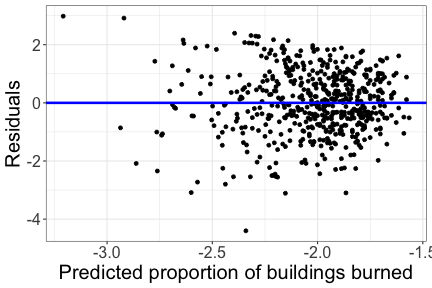
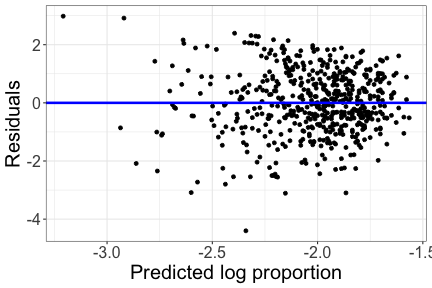
lecture 22 draft

Changed region(s): [[0.1204, 0.9062, 0.963, 1.0]]

diff --git a/slides/lecture_22.html b/slides/lecture_22.html
@@ -286,7 +286,7 @@ Where do we start?
 
 ## Looking at relationships: pairs plot
 
-A **pairs plot** let's us visualize pairwise relationships in the data:
+A **pairs plot** lets us visualize pairwise relationships in the data:
 
 &lt;img src="lecture_22_files/figure-html/unnamed-chunk-12-1.png" style="display: block; margin: auto;" /&gt;
 
@@ -336,6 +336,76 @@ What can I try to address these issues?
 
 .pull-right[
 &lt;img src="lecture_22_files/figure-html/unnamed-chunk-18-1.png" style="display: block; margin: auto;" /&gt;
+]
+
+---
+
+## How useful is the model?
+
+**Coefficient of determination** ( `\(R^2\)` ): the proportion of total variability in the response variable explained by the regression model.
+
+`\(R^2 = \dfrac{\text{Variability explained by model}}{\text{Total variability in y}} = \dfrac{\sum \limits_{i=1}^n (\widehat{y}_i - \overline{y})^2}{\sum \limits_{i=1}^n (y_i - \overline{y})^2} = \dfrac{SSModel}{SSTotal}\)`
+
+---
+
+### How useful is the model?
+
+
+```r
+lm_dens &lt;- lm(log_proportion ~ log_bld_den, data = fire_clusters)
+summary(lm_dens)
+```
+
+```
+## 
+## Call:
+## lm(formula = log_proportion ~ log_bld_den, data = fire_clusters)
+## 
+## Residuals:
+##     Min      1Q  Median      3Q     Max 
+## -4.4000 -0.6933 -0.0356  0.7986  2.9798 
+## 
+## Coefficients:
+##             Estimate Std. Error t value Pr(&gt;|t|)    
+## (Intercept) -2.04451    0.04752 -43.025  &lt; 2e-16 ***
+## log_bld_den -0.52367    0.09710  -5.393 1.03e-07 ***
+## ---
+## Signif. codes:  0 '***' 0.001 '**' 0.01 '*' 0.05 '.' 0.1 ' ' 1
+## 
+## Residual standard error: 1.107 on 545 degrees of freedom
+*## Multiple R-squared:  0.05066,	Adjusted R-squared:  0.04892 
+## F-statistic: 29.08 on 1 and 545 DF,  p-value: 1.034e-07
+```
+
+The p-value for the slope might be low, but log(density) only explains 5% of the variability in log(proportion).
+
+---
+
+## Interpretation
+
+`\(\widehat{\log(\text{proportion})} = -2.04 - 0.524 \ \log(\text{building density})\)`
+
+.question[
+Clusters with a higher density of buildings tend to have a lower proportion of buildings burned. Does this match what you expect?
+]
+
+---
+
+## Simpson's paradox
+
+An example with the penguin data:
+
+.pull-left[
+&lt;img src="lecture_22_files/figure-html/unnamed-chunk-20-1.png" style="display: block; margin: auto;" /&gt;
+]
+
+
+.pull-right[
+&lt;img src="lecture_22_files/figure-html/unnamed-chunk-21-1.png" style="display: block; margin: auto;" /&gt;
+]
+
+.question[
+The relationship between two variables can depend on other variables. Let's add another variable to the model. 
 ]
     </textarea>
 <style data-target="print-only">@media screen {.remark-slide-container{display:block;}.remark-slide-scaler{box-shadow:none;}}</style>
